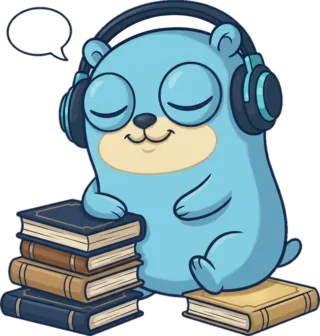
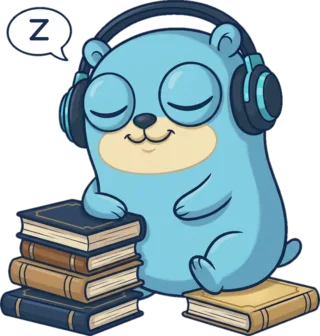
Polish the redesign: borders, night backdrop, small wordmark, gophers
Lighten the dark control border to 3.7:1 on the worst spot of the glass,
lift the night backdrop and cap only its lamps, cut a small wordmark whose
GO stays cyan, cut the gap between head and headphone band out of the
gophers, give the sleeping gopher a drawn z, drop the unused artwork and
record the phone's frame times in docs/design.md.

Claude-Session: https://claude.ai/code/session_01AGsnpkotGjaUVbE34AkRAz

Changed region(s): [[0.4375, 0.0298, 0.6875, 0.119], [0.3125, 0.0595, 0.4688, 0.1488], [0.0938, 0.0298, 0.1562, 0.119]]

diff --git a/web/src/styles/index.css b/web/src/styles/index.css
@@ -71,7 +71,7 @@ body {
 }
 
 /* The backdrop is only ever seen between and around the panels, which carry
-   all text (docs/design.md); the image is dimmed to stay far darker than them.
+   all text (docs/design.md); the night image keeps its lamps capped, so it stays far darker than them.
    Only the bars blur what is behind them: a blur under the whole content
    would be redrawn on every scroll. */
 body {
@@ -83,7 +83,7 @@ body {
 		background-image:
 			radial-gradient(ellipse 60% 45% at 0% 100%, rgb(230 154 70 / 0.2), transparent),
 			radial-gradient(ellipse 55% 40% at 100% 100%, rgb(230 154 70 / 0.16), transparent),
-			linear-gradient(rgb(11 22 48 / 0.35), rgb(11 22 48 / 0.35)),
+			linear-gradient(rgb(11 22 48 / 0.1), rgb(11 22 48 / 0.1)),
 			url("../assets/backdrop.webp");
 	}
 }
@@ -121,11 +121,11 @@ body {
 	--control-border: #8a7a5e;
 }
 :root[data-theme="dark"] {
-	--control-border: #7a8aa3;
+	--control-border: #8394ad;
 }
 @media (prefers-color-scheme: dark) {
 	:root:not([data-theme="light"]) {
-		--control-border: #7a8aa3;
+		--control-border: #8394ad;
 	}
 }
 .border-slate-300:not([aria-pressed="true"]),

diff --git a/docs/design.md b/docs/design.md
@@ -98,22 +98,39 @@ it is used.
 
 The **backdrop** is an image in both themes (`web/src/assets/backdrop.webp`,
 the library at night, and `backdrop-light.webp`, the library by day, made by
-`web/scripts/branding.sh`): blurred a little, the night one dimmed to 80 %
-and given a faint ink veil and amber corners, the day one lightened by a fifth
-toward parchment. It shows through the panels, which are glass on a desktop:
+`web/scripts/branding.sh`): blurred a little, the night one lifted (gamma
+1.6, so the library shows: its mean luminance is three times what it was) with
+only its lamps held down, a soft knee at a luminance of 90 / 255 that never
+passes 140 / 255, then given a faint ink veil (10 %) and amber corners, the
+day one lightened by a fifth toward parchment. It shows through the panels, which are glass on a desktop:
 the panel colour at **78 % (dark) or 74 % (light)** with
 `backdrop-filter: blur(14px) saturate(120%)`. Below 1024 px, where a blur
 under a page that scrolls the whole screen is redrawn every frame, and
 where the browser cannot blur (`@supports`) or the person asks for less
 transparency (`prefers-reduced-transparency`), panels are 92 % opaque.
+The phone's cost was measured (#406), not only reasoned: Chromium as a
+Pixel 7 in Playwright's container, the CPU throttled four times, 500 books
+in the library grid scrolled in 80 steps, the time between animation frames
+taken. Panels as shipped (opaque, no blur): median 16.7 ms (60 frames a
+second), 95th percentile 16.7 ms, one or three frames in a hundred over
+33 ms. The same page with the blur forced on: median 16.7 ms, 95th
+percentile 33 ms, six to ten frames in a hundred over 33 ms. So the phone
+pays nothing for the glass as shipped, and would pay for it if it had it.
+The container has no GPU, so these are software-rendered frames: on the
+desktop's glass the same run gave a median of 50 ms (20 frames a second)
+against 16.7 ms with opaque panels, which a GPU does not repeat but a
+machine without one does.
+
 Dialogs, menus, the readers (`panel-solid`) and the finished-book toast are
 fully opaque. Only the three large panels blur; cards are translucent
 without a blur of their own.
 
 How the opacity was chosen: every pair is checked on the worst spot, not the
-average. Dark: the brightest pixel of the unblurred backdrop (rgb 210 186
-131, a lamp) under the ink veil and the strongest amber corner is rgb 158 134
-96; the panel over it is rgb 52 57 70. Light: the darkest pixel of the day
+average. Dark: the brightest pixel of the backdrop (a lamp, capped; rgb
+166 133 97 in the file) under the ink veil and the strongest amber corner is
+rgb 157 132 94; the panel over it is rgb 52 57 70. Capping the lamps instead
+of dimming the whole picture is what lets the rest of the library be
+brighter without moving this spot (#406). Light: the darkest pixel of the day
 backdrop (rgb 185 178 164) under the white panel is rgb 237 235 231. On those:
 
 | Dark pair on the panel | Ratio | Light pair on the panel | Ratio |
@@ -130,8 +147,9 @@ slate-100. The **boundary of a control** (field, select, outline button; WCAG
 1.4.11, 3:1) is its own token, `--control-border` (`styles/index.css`, which
 takes the place of the neutral steps 300 and 600 on any `border-slate-300` and
 `dark:border-slate-600`): `#8a7a5e` in the light theme, 3.5:1 on the worst
-panel and 4.9:1 on a white field; `#7a8aa3` in the dark one, 3.3:1 on the
-worst panel and 4.4:1 on the field's navy. Card and panel hairlines stay
+panel and 4.9:1 on a white field; `#8394ad` in the dark one, 3.7:1 on the
+worst panel (it was `#7a8aa3`, 3.3:1, which a small change of the backdrop
+could take under 3:1) and 5.5:1 on the field's navy. Card and panel hairlines stay
 subtle, as they are decoration. Native checkboxes and radios are drawn by
 the browser in the page's `color-scheme`. The focus ring (brand-strong
 `#0b6f96` on light, cyan on dark) is 5.2 and 5.3. If a pair
@@ -147,6 +165,11 @@ text's colour.
   It has the accessible name "GOtome". A logo is exempt from the text
   contrast rules, but it is kept legible: on a panel, at 36 px high in the
   top bar and about 280 px wide on the sign-in and setup pages.
+  The top bar's size is its own cut: at 36 px the large one's thin inner
+  gold line mixed into the cyan and the "GO" read teal, so the small cut
+  runs the "GO" through a median over 3 by 3 pixels, which takes the line
+  out, and gives the colour back with more saturation (125 % on dark, 115 %
+  on light). The large cut for the sign-in and setup pages is unchanged.
 
 - **Headings**: a serif. Only
   what the system has (`--font-serif`: Iowan Old Style, Palatino, Book

diff --git a/CHANGELOG.md b/CHANGELOG.md
@@ -6,6 +6,15 @@ What changes for someone who runs or uses GOtome. The format follows
 
 ## [Unreleased]
 
+### Fixed
+
+- The dark theme's field and button borders are a little lighter, so they
+  stay easy to see over the glass panels, and the library behind the panels
+  shows more at night: only its lamps are held down, not the whole picture.
+- The "GO" of the small wordmark in the top bar reads cyan again instead of
+  teal, and the gopher's pictures no longer show a white patch between its
+  head and its headphone band; the sleeping gopher's speech bubble has a "z".
+
 ## [0.12.0] - 2026-11-09
 
 ### Added
@@ -21,7 +30,6 @@ What changes for someone who runs or uses GOtome. The format follows
 - The name in the top bar and on the sign-in and setup pages is a new
   wordmark: an illuminated "GO" and "tome" in gold lettering, one for each
   colour theme.
-
 - Books in the library's grid, on author and series pages and in "similar
   books" are shown as rounded cards, with a round badge on the cover's
   corner saying whether the book is an ebook, an audiobook or both.

diff --git a/assets/branding/README.md b/assets/branding/README.md
@@ -6,7 +6,6 @@ binary `gotome`, the Go module path, `GOTOME_*` variables, the repository URL.
 | File | Size | Use |
 |---|---|---|
 | `banner.jpg` | 1024 × 1024 | Top of the repository README |
-| `artwork.jpg` | 1024 × 1054 | Earlier illustration for the login and setup pages; the hero replaced it there |
 | `logo.jpg` | 1024 × 1051 | Logo with wordmark |
 | `icon.png` | 800 × 800 | The logo's mark alone, square; source for the favicon and app icons |
 | `hero.jpg`, `hero-light.jpg` | 1584 × 672 | Home page hero, night and day (gopher at the left, calm space at the right) |
